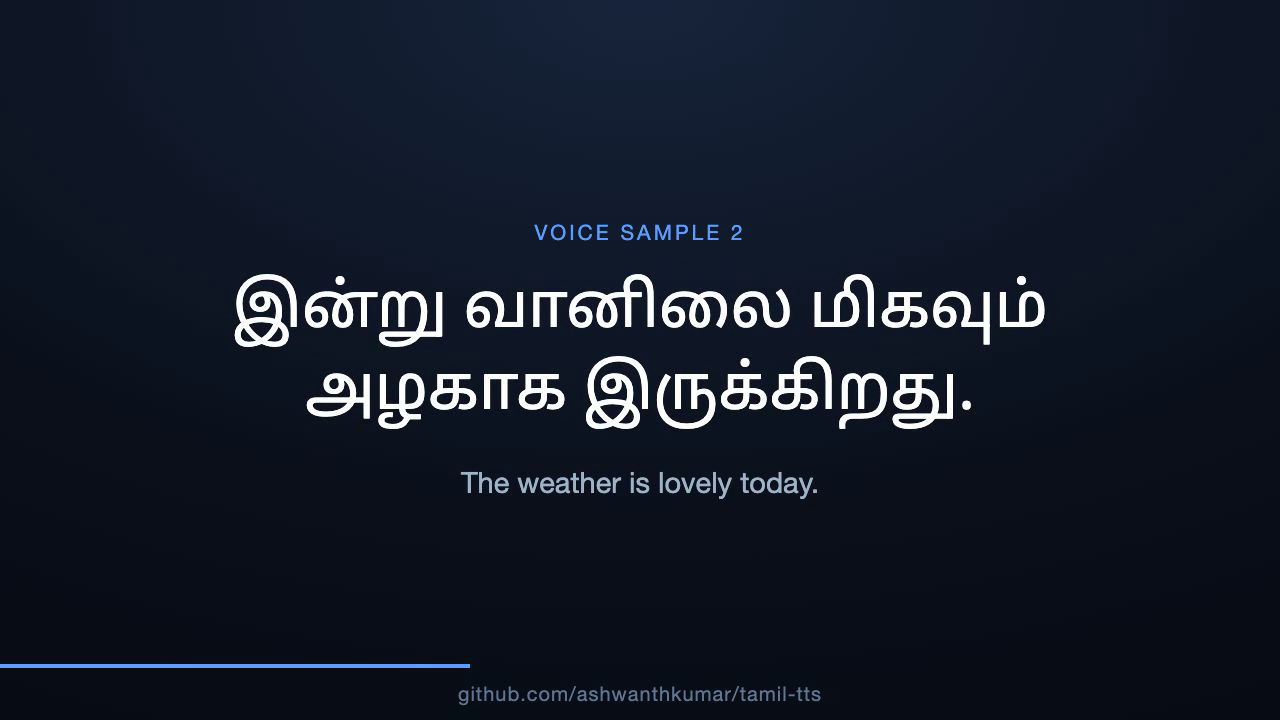
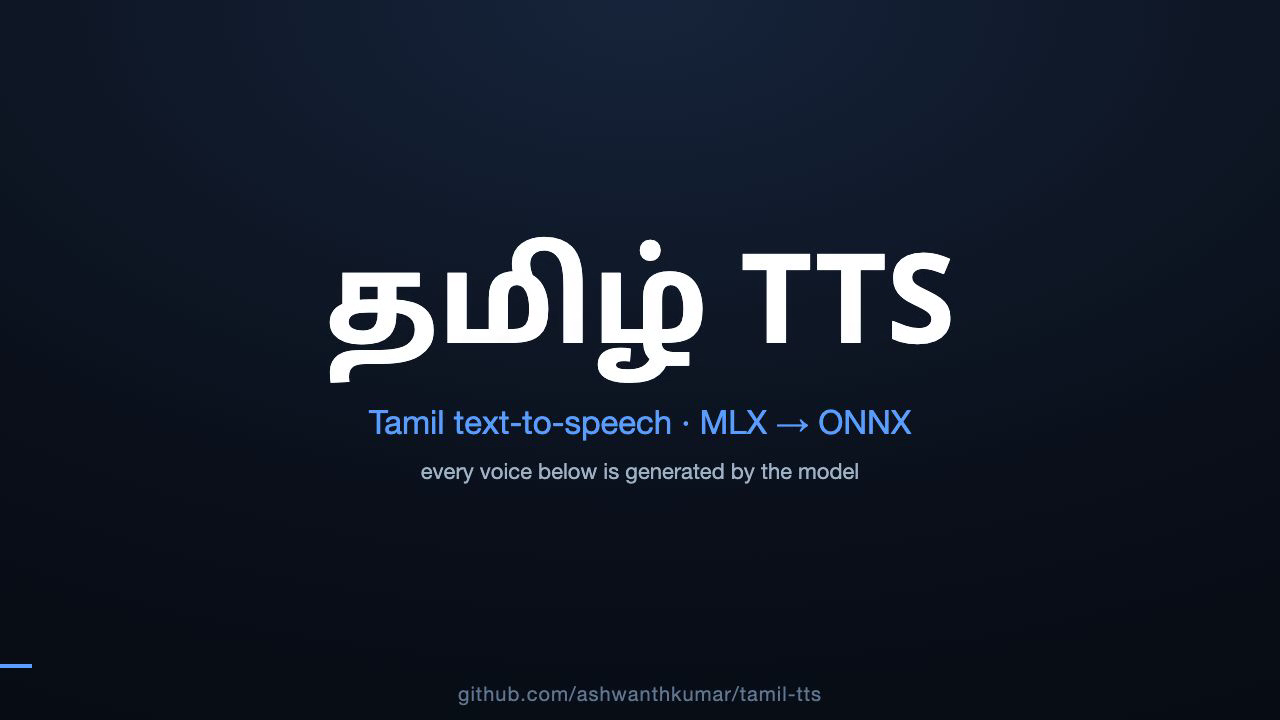
Regenerate demo intro on v0.2 + add prosody-control showcase
Re-synthesize all segments through the shipped v0.2 ONNX model and add a
"Controllable prosody" showcase: the same Tamil line spoken five ways
(natural / lower pitch / higher pitch / softer / faster), each labeled with
its speed/pitch/energy knob — demonstrating the v0.2 variance adaptors.
Refresh videos/intro.mp4 (~73s) and the poster thumbnail.

Changed region(s): [[0.1875, 0.3056, 0.8125, 0.6111], [0.3125, 0.6417, 0.6875, 0.7028], [0.0312, 0.9167, 0.375, 0.9472]]

diff --git a/videos/intro/src/Intro.tsx b/videos/intro/src/Intro.tsx
@@ -53,6 +53,31 @@ const Segment: React.FC<{seg: Seg; index: number}> = ({seg, index}) => {
   );
 };
 
+type Show = {file: string; label: string; sub: string; start: number; dur: number};
+
+const ShowcaseClip: React.FC<{show: Show}> = ({show}) => (
+  <Sequence from={show.start} durationInFrames={show.dur + 16}>
+    <Audio src={staticFile(show.file)} />
+    <AbsoluteFill style={{justifyContent: 'center', alignItems: 'center', padding: 96}}>
+      <FadeUp at={3}>
+        <div style={{fontFamily: tamilFont, fontSize: 58, color: '#9fb3c8', textAlign: 'center', marginBottom: 34}}>
+          {(script as {showcase_text: string}).showcase_text}
+        </div>
+      </FadeUp>
+      <FadeUp at={6}>
+        <div style={{fontFamily: SANS, fontSize: 64, color: 'white', fontWeight: 700, textAlign: 'center'}}>
+          {show.label}
+        </div>
+      </FadeUp>
+      <FadeUp at={11}>
+        <div style={{fontFamily: SANS, fontSize: 28, color: ACCENT, marginTop: 18, letterSpacing: 1}}>
+          {show.sub}
+        </div>
+      </FadeUp>
+    </AbsoluteFill>
+  </Sequence>
+);
+
 export const Intro: React.FC = () => {
   const frame = useCurrentFrame();
   const progress = Math.min(frame / script.total, 1);
@@ -86,6 +111,31 @@ export const Intro: React.FC = () => {
 
       {(script.segments as Seg[]).map((seg, i) => (
         <Segment key={i} seg={seg} index={i} />
+      ))}
+
+      {/* v0.2 prosody-control showcase: title card + one line at different knob settings */}
+      <Sequence
+        from={(script as {showcase_title_start: number}).showcase_title_start}
+        durationInFrames={(script as {showcase_title: number}).showcase_title}
+      >
+        <AbsoluteFill style={{justifyContent: 'center', alignItems: 'center'}}>
+          <FadeUp at={6}>
+            <div style={{fontFamily: SANS, fontSize: 21, color: ACCENT, letterSpacing: 3, textTransform: 'uppercase', marginBottom: 22}}>
+              New in v0.2
+            </div>
+          </FadeUp>
+          <FadeUp at={12}>
+            <div style={{fontFamily: SANS, fontSize: 76, color: 'white', fontWeight: 700, textAlign: 'center'}}>Controllable prosody</div>
+          </FadeUp>
+          <FadeUp at={24}>
+            <div style={{fontFamily: SANS, fontSize: 30, color: '#9fb3c8', marginTop: 18, textAlign: 'center'}}>
+              the same line — adjust speed, pitch &amp; energy
+            </div>
+          </FadeUp>
+        </AbsoluteFill>
+      </Sequence>
+      {((script as {showcase: Show[]}).showcase ?? []).map((show, i) => (
+        <ShowcaseClip key={`show${i}`} show={show} />
       ))}
 
       {/* closing acknowledgment / thank-you (with model voice-over) */}

diff --git a/videos/intro/build_script.py b/videos/intro/build_script.py
@@ -36,13 +36,25 @@ SEGMENTS = [
 
 INTRO = 80          # title frames before first clip
 GAP = 16            # frames between clips
+SHOWCASE_TITLE = 80  # frames for the "controllable prosody" title card
 # closing thank-you voice-over, spoken by the model (pure Tamil so it's in-vocab)
 ACK_TEXT = "இந்தத் தரவுத்தொகுப்பைப் பகிர்ந்த சென்னை ஐ.ஐ.டி. குழுவிற்கு எங்களின் மிக்க நன்றி."
 
+# v0.2 prosody showcase: one sentence, re-spoken with different speed/pitch/energy knobs.
+SHOWCASE_TEXT = "தமிழ் ஒரு அழகான மொழி."   # "Tamil is a beautiful language."
+SHOWCASE = [
+    {"label": "Natural", "sub": "speed 1.0 · pitch 1.0 · energy 1.0"},
+    {"label": "Lower pitch", "sub": "pitch 0.85", "pitch": 0.85},
+    {"label": "Higher pitch", "sub": "pitch 1.15", "pitch": 1.15},
+    {"label": "Softer", "sub": "energy 0.7", "energy": 0.7},
+    {"label": "Faster", "sub": "speed 1.25", "speed": 1.25},
+]
 
-def gen(text: str, out: Path):
+
+def gen(text: str, out: Path, speed: float = 1.0, pitch: float = 1.0, energy: float = 1.0):
     subprocess.run(["uv", "run", "python", "-m", "tamiltts.mlx.onnx_infer_ns",
-                    "-m", MODEL, "--text", text, "-o", str(out)],
+                    "-m", MODEL, "--text", text, "-o", str(out),
+                    "--speed", str(speed), "--pitch", str(pitch), "--energy", str(energy)],
                    cwd=ROOT, check=True, capture_output=True)
 
 
@@ -58,6 +70,20 @@ def main():
         segs.append({"file": f.name, "tamil": ta, "en": en, "start": cursor, "dur": df})
         print(f"seg{i:02d}: {dur:.2f}s -> {df}f  start={cursor}  | {en}")
         cursor += df + GAP
+
+    # v0.2 prosody showcase: title card, then the same line at different knob settings
+    showcase_title_start = cursor + GAP
+    cursor = showcase_title_start + SHOWCASE_TITLE
+    shows = []
+    for i, sc in enumerate(SHOWCASE):
+        f = PUB / f"show{i:02d}.wav"
+        gen(SHOWCASE_TEXT, f, speed=sc.get("speed", 1.0), pitch=sc.get("pitch", 1.0), energy=sc.get("energy", 1.0))
+        dur = sf.info(f).frames / sf.info(f).samplerate
+        df = round(dur * FPS)
+        shows.append({"file": f.name, "label": sc["label"], "sub": sc["sub"], "start": cursor, "dur": df})
+        print(f"show{i:02d}: {dur:.2f}s -> {df}f  start={cursor}  | {sc['label']} ({sc['sub']})")
+        cursor += df + GAP
+
     # closing thank-you voice-over
     ack_file = PUB / "ack.wav"
     gen(ACK_TEXT, ack_file)
@@ -69,7 +95,9 @@ def main():
     total = ack_start + ack_window
     script = {"fps": FPS, "width": 1280, "height": 720, "intro": INTRO,
               "ack_start": ack_start, "ack_audio": ack_file.name, "ack_lead": 10,
-              "total": total, "segments": segs}
+              "total": total, "segments": segs,
+              "showcase_title_start": showcase_title_start, "showcase_title": SHOWCASE_TITLE,
+              "showcase_text": SHOWCASE_TEXT, "showcase": shows}
     (SRC / "script.json").write_text(json.dumps(script, ensure_ascii=False, indent=2), encoding="utf-8")
     print(f"total {total} frames = {total/FPS:.1f}s -> wrote src/script.json")
 